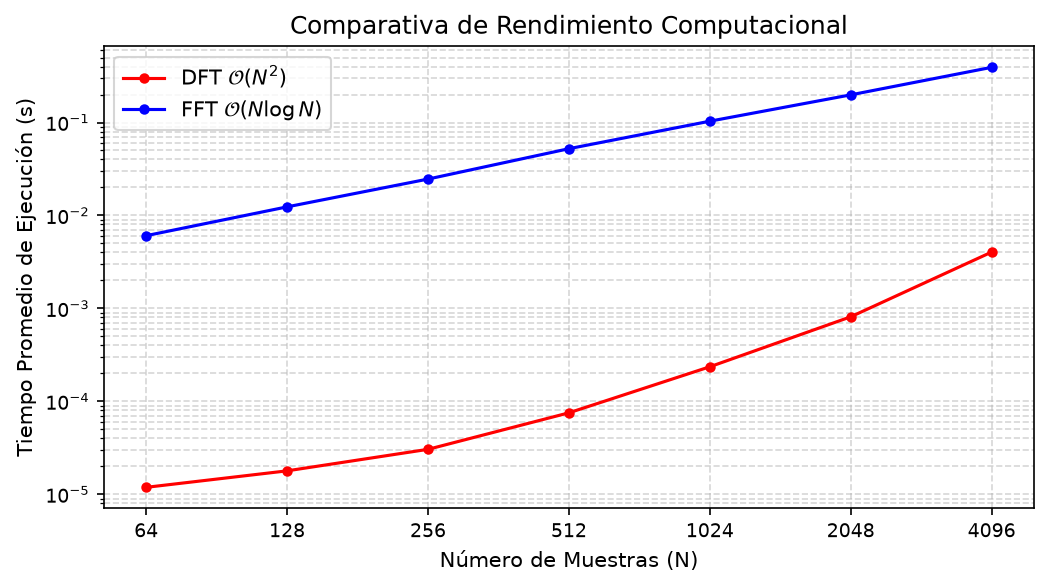
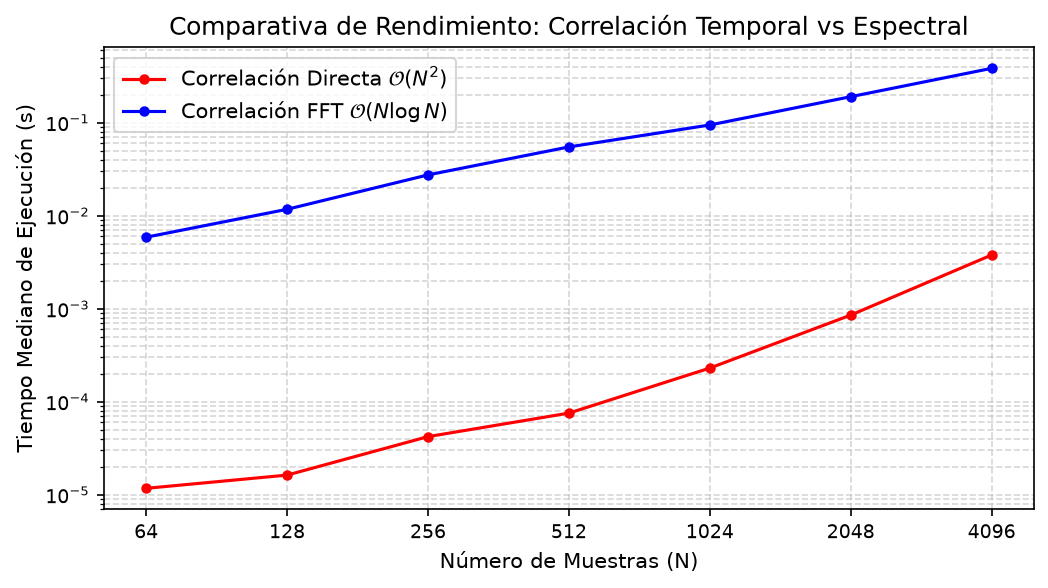
Corrección

diff --git a/proyecto_radar/simulacion_python/src/radar/visualization/plots.py b/proyecto_radar/simulacion_python/src/radar/visualization/plots.py
@@ -122,18 +122,28 @@ def plot_phase_spectrum(spectrum: Spectrum, filepath: str = None, zoom_freq: flo
     
     _save_or_show(fig, filepath)
 
-def plot_execution_times(ns: list[int], dft_times: list[float], fft_times: list[float], filepath: str = None):
+def plot_execution_times(
+    ns: list[int], 
+    dft_times: list[float], 
+    fft_times: list[float], 
+    filepath: str = None,
+    label_1: str = r'DFT $\mathcal{O}(N^2)$',
+    label_2: str = r'FFT $\mathcal{O}(N \log N)$',
+    title: str = "Comparativa de Rendimiento Computacional",
+    ylabel: str = "Tiempo Promedio de Ejecución (s)"
+):
     """
     Grafica la comparación de tiempos de ejecución (N vs Tiempo) en escala logarítmica.
+    Soporta personalización de etiquetas y títulos manteniendo compatibilidad con código existente.
     """
     fig, ax = plt.subplots()
     
-    ax.plot(ns, dft_times, 'ro-', label=r'DFT $\mathcal{O}(N^2)$')
-    ax.plot(ns, fft_times, 'bo-', label=r'FFT $\mathcal{O}(N \log N)$')
+    ax.plot(ns, dft_times, 'ro-', label=label_1)
+    ax.plot(ns, fft_times, 'bo-', label=label_2)
     
-    ax.set_title("Comparativa de Rendimiento Computacional")
+    ax.set_title(title)
     ax.set_xlabel("Número de Muestras (N)")
-    ax.set_ylabel("Tiempo Promedio de Ejecución (s)")
+    ax.set_ylabel(ylabel)
     
     # Escala logarítmica en Y para observar detalles en algoritmos rápidos y lentos
     ax.set_yscale('log')

diff --git a/proyecto_radar/simulacion_python/experiments/experiment_correlation_timing.py b/proyecto_radar/simulacion_python/experiments/experiment_correlation_timing.py
@@ -48,7 +48,14 @@ def run_timing_benchmark():
     os.makedirs(out_dir, exist_ok=True)
     filepath = f"{out_dir}/benchmark_correlacion_comparativo.png"
     
-    plot_execution_times(sizes, direct_times_median, fft_times_median, filepath=filepath)
+    plot_execution_times(sizes, 
+        direct_times_median, 
+        fft_times_median, 
+        filepath=filepath,
+        label_1=r"Correlación Directa $\mathcal{O}(N^2)$",
+        label_2=r"Correlación FFT $\mathcal{O}(N \log N)$",
+        title="Comparativa de Rendimiento: Correlación Temporal vs Espectral",
+        ylabel="Tiempo Mediano de Ejecución (s)")
     
     print("\n[+] Resultados de Tiempos (Mediana en segundos):")
     print(f"{'N':<8} | {'Directa O(N^2)':<15} | {'FFT O(N log N)':<15}")
